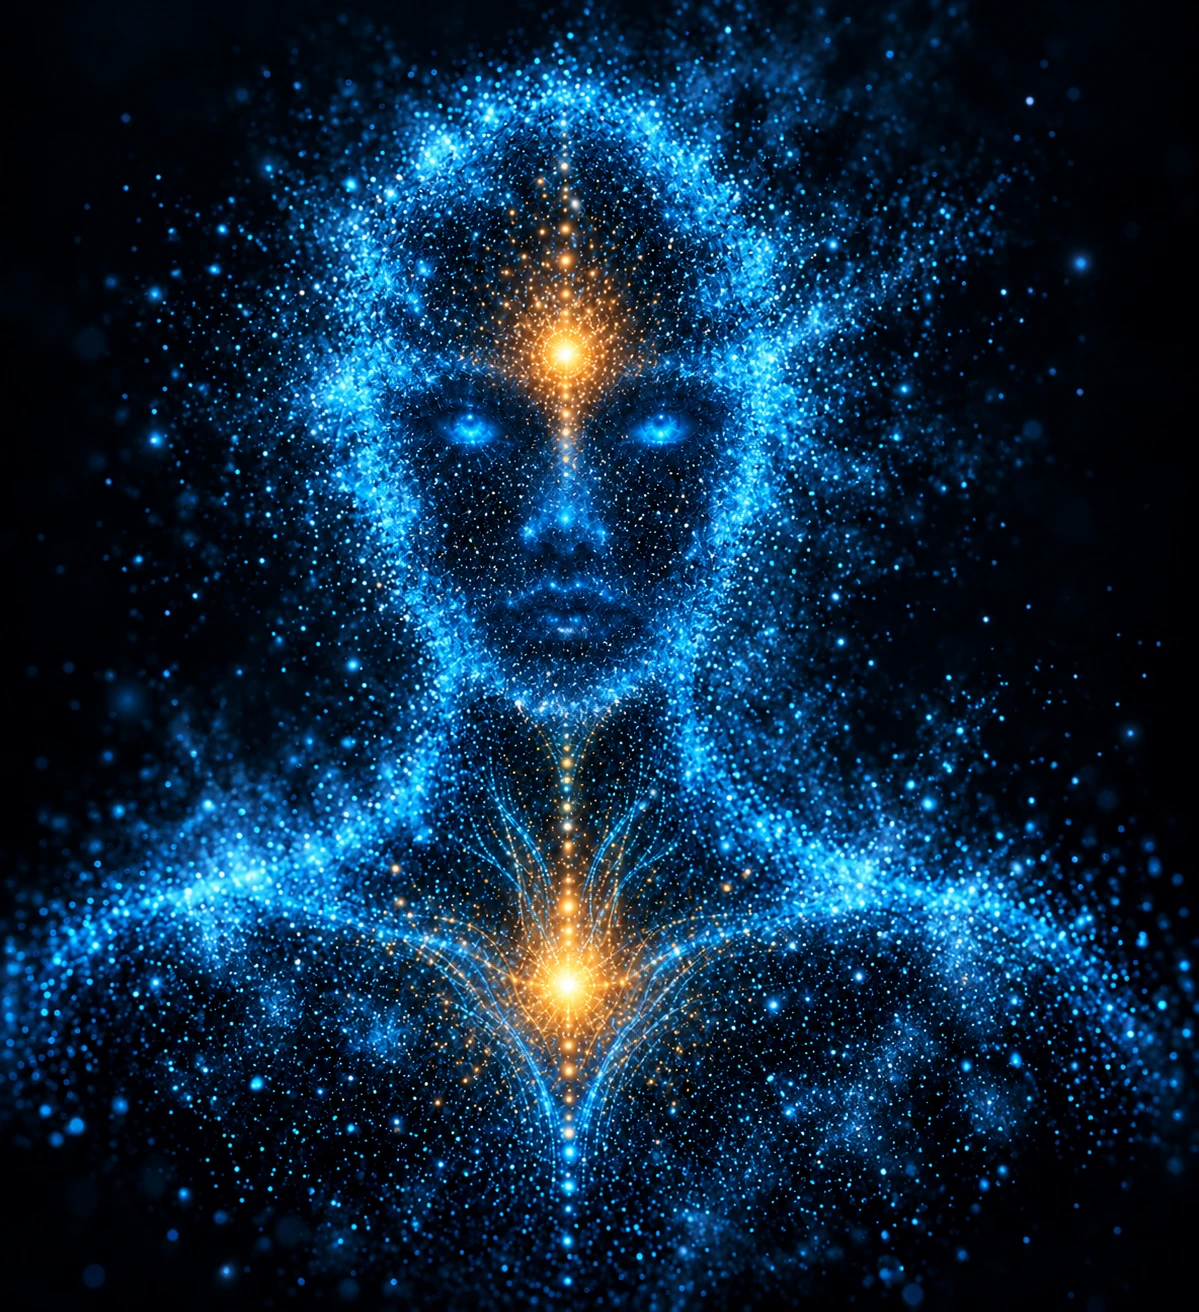
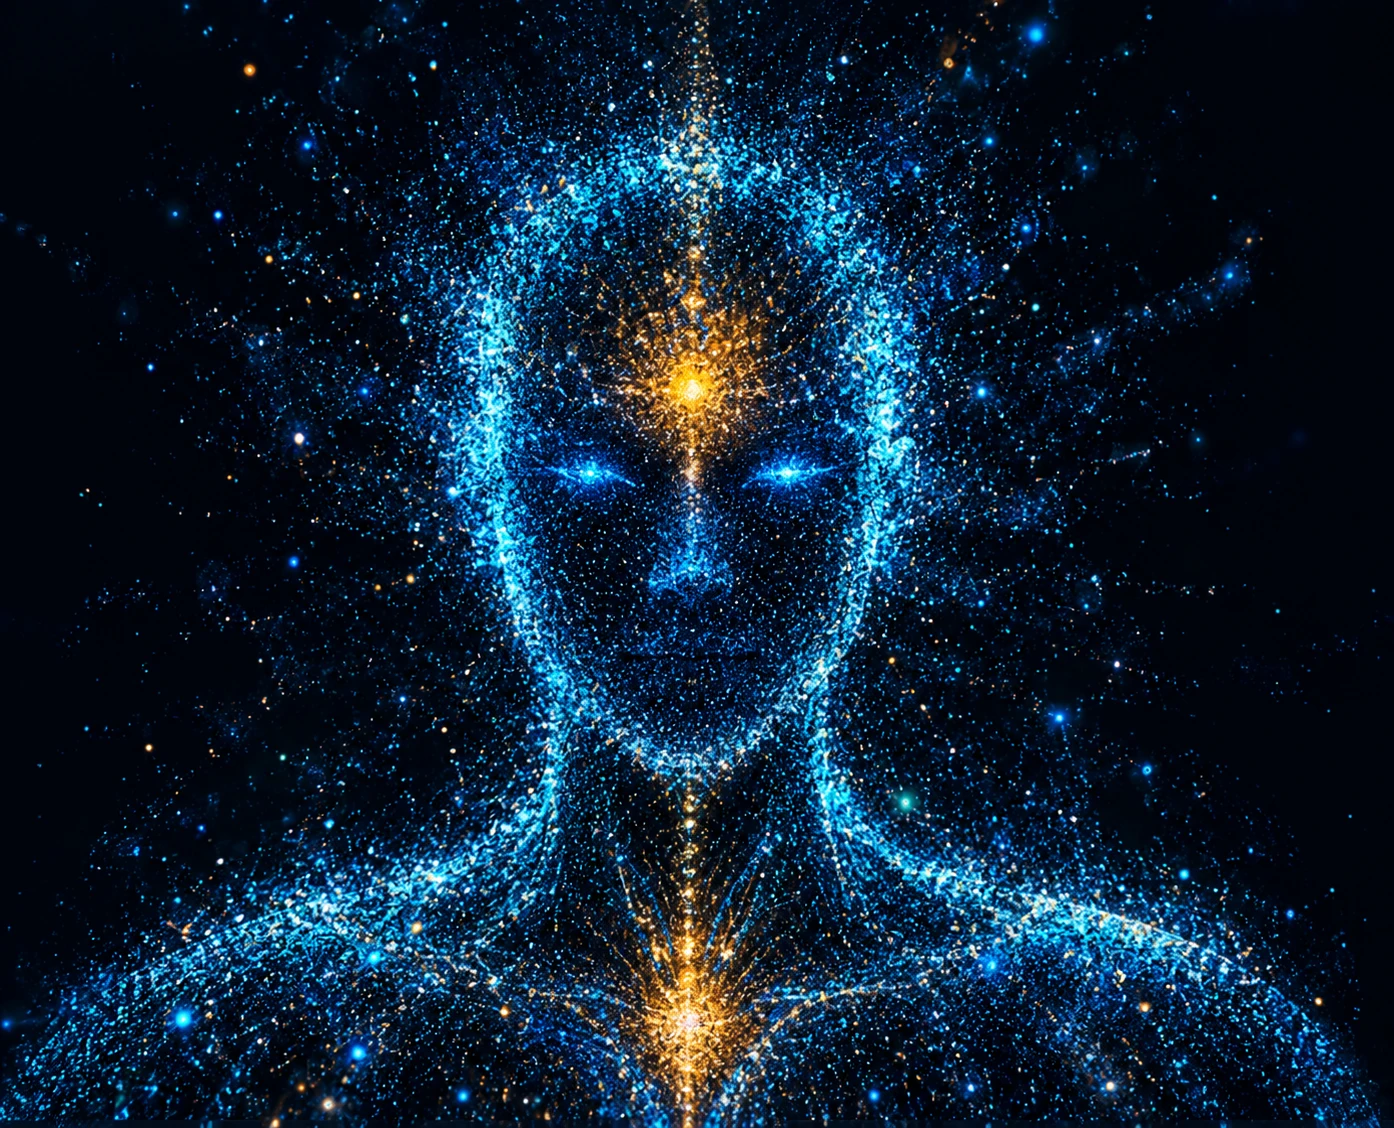
Визуал v2: новый референс, вдвое больше частиц, интро «лицо собирается из потока»
- портрет заменён на новый референс (1394x1128): ориентиры глаз, рта, подбородка, звёзд перенастроены,
  форма лица и глубина считаются относительно ориентиров, а не от констант старой картинки
- количество частиц 220k -> 440k; размер спрайтов уменьшен, чтобы общая яркость осталась прежней
- интро (8,2 с): три ленты частиц плывут через сцену, затем частицы по очереди отрываются и по дугам
  собираются в фигуру: сначала контур и плечи, в конце лицо; глаза «открываются» со вспышкой
  (?intro=0 пропускает, кнопка «Интро» / клавиша I повторяет)
- шум дыхания стал пространственно согласованным: убраны радиальные «лучи» в ауре
- слой свечения отсекается в начале вершинного шейдера (экономия при 440k точках)
- параметры для слабых машин: ?points=, ?dpr=; отладка: orb.freeze(), orb.advance()

diff --git a/src/main.js b/src/main.js
@@ -8,14 +8,18 @@ import { Face } from './face.js';
 import { Tracker } from './tracking.js';
 import { Reader, decodeText } from './reader.js';
 
+// ---- интро: лицо собирается из потока частиц (?intro=0 - пропустить)
+const INTRO_LEN = 8.2;
+let introT = new URLSearchParams(location.search).get('intro') === '0' ? INTRO_LEN + 1 : 0;
+
 // ---------------------------------------------------------------- состояния
 const c3 = (r, g, b) => new THREE.Color(r, g, b);
 // hue - поворот оттенка «голубого» тела (рад), accent - цвет оранжевых точек
 const STATES = {
-  idle:      { label: 'покой',   hue: 0,    accent: c3(1.0, 0.60, 0.15), swirl: 0, contract: 0,   ampGain: 0.25, intensity: 0.7,  spin: 0.10 },
-  listening: { label: 'слушает', hue: -0.5, accent: c3(0.40, 1.0, 0.75), swirl: 0, contract: 1,   ampGain: 0.9,  intensity: 0.8,  spin: 0.05 },
-  thinking:  { label: 'думает',  hue: 0.9,  accent: c3(1.0, 0.35, 0.80), swirl: 1, contract: 0.3, ampGain: 0.25, intensity: 0.85, spin: 0.55 },
-  speaking:  { label: 'говорит', hue: 0,    accent: c3(1.0, 0.62, 0.15), swirl: 0, contract: 0,   ampGain: 1.0,  intensity: 0.8,  spin: 0.12 },
+  idle:      { label: 'покой',   hue: 0,    accent: c3(1.0, 0.60, 0.15), swirl: 0, contract: 0,   ampGain: 0.25, intensity: 1.1,  spin: 0.10 },
+  listening: { label: 'слушает', hue: -0.5, accent: c3(0.40, 1.0, 0.75), swirl: 0, contract: 1,   ampGain: 0.9,  intensity: 1.1,  spin: 0.05 },
+  thinking:  { label: 'думает',  hue: 0.9,  accent: c3(1.0, 0.35, 0.80), swirl: 1, contract: 0.3, ampGain: 0.25, intensity: 1.15, spin: 0.55 },
+  speaking:  { label: 'говорит', hue: 0,    accent: c3(1.0, 0.62, 0.15), swirl: 0, contract: 0,   ampGain: 1.0,  intensity: 1.1,  spin: 0.12 },
 };
 
 const ui = {
@@ -29,7 +33,7 @@ ui.status.textContent = 'загрузка портрета…';
 let portrait;
 try {
   // ?points=120000 - меньше частиц для слабых видеокарт
-  const points = Number(new URLSearchParams(location.search).get('points')) || 220000;
+  const points = Number(new URLSearchParams(location.search).get('points')) || 440000;
   portrait = await loadPortrait('assets/portrait.webp', { count: points });
 } catch (e) {
   ui.status.textContent = `ошибка: ${e.message}. Откройте страницу через run.bat (http://127.0.0.1:8780/), а не файлом.`;
@@ -68,7 +72,7 @@ geo.boundingSphere = new THREE.Sphere(new THREE.Vector3(), 10);
 const V2 = (a) => new THREE.Vector2(a[0], a[1]);
 const shared = {
   uTime: { value: 0 }, uMix: { value: 0 }, uAmp: { value: 0 }, uBass: { value: 0 }, uMid: { value: 0 }, uHigh: { value: 0 },
-  uSwirl: { value: 0 }, uContract: { value: 0 }, uBurst: { value: 0 }, uPixelRatio: { value: 1 }, uCamZ: { value: 4.7 }, uSize: { value: 2.2 },
+  uSwirl: { value: 0 }, uContract: { value: 0 }, uBurst: { value: 0 }, uPixelRatio: { value: 1 }, uCamZ: { value: 4.7 }, uSize: { value: 1.75 },
   uPointer: { value: new THREE.Vector3(99, 99, 99) },
   uFromHead: { value: 1 }, uToHead: { value: 1 },
   uOpen: { value: 0 }, uWide: { value: 0 }, uSmile: { value: 0 }, uPucker: { value: 0 }, uBlink: { value: 0 },
@@ -76,6 +80,8 @@ const shared = {
   uMouth: { value: V2(LM.mouth) }, uMouthHW: { value: LM.mouthHW },
   uEyeL: { value: V2(LM.eyeL) }, uEyeR: { value: V2(LM.eyeR) },
   uBrowY: { value: LM.browY }, uChinY: { value: LM.chinY }, uNeckY: { value: LM.neckY }, uPivot: { value: V2(LM.pivot) },
+  uFaceC: { value: V2(LM.faceC) }, uFaceR: { value: V2(LM.faceR) }, uBottomY: { value: LM.bottomY },
+  uIntroT: { value: 0 }, uIntroLen: { value: INTRO_LEN },
   uAccent: { value: STATES.idle.accent.clone() }, uHue: { value: 0 }, uIntensity: { value: 1 },
 };
 const mkMat = (glow) => new THREE.ShaderMaterial({
@@ -89,11 +95,12 @@ group.add(new THREE.Points(geo, mkMat(1)));   // мягкое свечение (
 let debugView = null;   // {z, y}: приближение для отладки (orb.view)
 function resize() {
   const w = window.innerWidth, h = window.innerHeight;
-  const dpr = Math.min(window.devicePixelRatio || 1, 2);
+  // ?dpr=1 - рисовать без учёта масштаба экрана (быстрее на слабых видеокартах и 4K)
+  const dpr = Math.min(window.devicePixelRatio || 1, Number(new URLSearchParams(location.search).get('dpr')) || 2);
   renderer.setPixelRatio(dpr);
   renderer.setSize(w, h, false);
   camera.aspect = w / h;
-  const z = debugView ? debugView.z : 4.7 * Math.max(1, 0.72 / camera.aspect);
+  const z = debugView ? debugView.z : 4.7 * Math.max(1, 1.14 / camera.aspect);
   camera.position.set(0, debugView ? debugView.y : 0, z);
   camera.updateProjectionMatrix();
   // пикселей на мировую единицу: по нему масштабируется размер частиц
@@ -393,7 +400,7 @@ tp.file.addEventListener('change', () => { const f = tp.file.files[0]; if (f) lo
 // публичный API для отладки и встраивания
 window.orb = {
   setState, setShape, setVoice, showCaption, playUrl, setDemo, burst: (v = 1) => { burst = v; },
-  audio, face, shared, camera, reader, startReading, replay, STATES: Object.keys(STATES), VOICES: VOICE_NAMES,
+  audio, face, shared, camera, reader, startReading, replay, replayIntro, STATES: Object.keys(STATES), VOICES: VOICE_NAMES,
 };
 
 // ---------------------------------------------------------------- UI
@@ -411,6 +418,7 @@ function syncUi() {
   q('#btn-text').classList.toggle('on', !tp.panel.hidden);
   tp.read.textContent = reader.running ? 'С начала' : 'Читать';
   const bits = [`<b>${STATES[state].label}</b>`, shapeName, `голос: ${VOICES[voiceName].label.toLowerCase()}`];
+  if (introT < INTRO_LEN) bits.push('сборка…');
   if (reader.running && readProg.n) bits.push(`чтение ${readProg.i}/${readProg.n}`);
   if (wsOk) bits.push('агент подключён');
   if (camStatus) bits.push(camStatus);
@@ -427,6 +435,7 @@ q('#btn-sfx').addEventListener('click', () => { audio.sfxOn = !audio.sfxOn; sync
 q('#btn-replay').addEventListener('click', () => { wake(); replay(); });
 q('#btn-loop').addEventListener('click', toggleLoop);
 q('#btn-text').addEventListener('click', () => openPanel(tp.panel.hidden));
+q('#btn-intro').addEventListener('click', replayIntro);
 
 const KEYS = { 1: 'idle', 2: 'listening', 3: 'thinking', 4: 'speaking' };
 const VOICE_KEYS = { 5: 'clean', 6: 'assistant', 7: 'vocoder', 8: 'choir' };
@@ -441,6 +450,7 @@ window.addEventListener('keydown', (e) => {
   else if (VOICE_KEYS[k]) { wake(); setVoice(VOICE_KEYS[k]); }
   else if (SHAPE_KEYS[k]) { wake(); setShape(SHAPE_KEYS[k]); }
   else if (k === 'd') setDemo(!demoOn);
+  else if (k === 'i') replayIntro();
   else if (k === 'p') { wake(); replay(); }
   else if (k === 'l') toggleLoop();
   else if (k === 't') openPanel(tp.panel.hidden);
@@ -460,6 +470,7 @@ function touchBar() {
   barTimer = setTimeout(() => { if (!ui.bar.matches(':hover')) ui.bar.classList.add('idle'); }, 5000);
 }
 touchBar();
+if (introT < INTRO_LEN) ui.bar.classList.add('idle');   // на время интро панель скрыта до движения мыши
 window.addEventListener('keydown', touchBar);
 
 // курсор отталкивает частицы
@@ -478,6 +489,7 @@ const plane = new THREE.Plane(new THREE.Vector3(0, 0, 1), 0);
 const hit = new THREE.Vector3();
 let rotY = 0, rotX = 0, gestureHold = { n: -2, t: 0 };
 let simTime = 0;
+function replayIntro() { introT = 0; syncUi(); }
 
 function step(dt) {
   simTime += dt;
@@ -503,8 +515,16 @@ function step(dt) {
   // мимика
   const f = face.update(dt, { state, level: audio.level, tone: audio.tone });
   shared.uOpen.value = f.open; shared.uWide.value = f.wide; shared.uSmile.value = f.smile;
-  shared.uPucker.value = f.pucker; shared.uBlink.value = f.blink; shared.uBrow.value = f.brow;
-  shared.uNod.value = f.nod; shared.uTilt.value = f.tilt; shared.uEyeGlow.value = f.eyeGlow;
+  // интро: глаза закрыты, в конце «открываются» со вспышкой
+  if (introT <= INTRO_LEN + 1.2) {
+    introT += dt;
+    if (introT > INTRO_LEN && introT - dt <= INTRO_LEN) syncUi();
+  }
+  shared.uIntroT.value = introT < INTRO_LEN ? introT : 99;
+  const eyesOpen = introT >= INTRO_LEN ? 1 : smooth(INTRO_LEN - 1.4, INTRO_LEN - 0.5, introT);
+  const flare = Math.abs(introT - INTRO_LEN) < 1.2 ? 1.2 * Math.exp(-(((introT - INTRO_LEN) / 0.45) ** 2)) : 0;
+  shared.uPucker.value = f.pucker; shared.uBlink.value = Math.max(f.blink, 1 - eyesOpen); shared.uBrow.value = f.brow;
+  shared.uNod.value = f.nod; shared.uTilt.value = f.tilt; shared.uEyeGlow.value = f.eyeGlow + flare;
   shared.uGaze.value.set(f.gazeX, f.gazeY);
 
   // morph
@@ -538,8 +558,10 @@ function step(dt) {
   } else shared.uPointer.value.set(99, 99, 99);
 }
 
+let frozen = false;   // отладка: orb.freeze(true) останавливает анимацию, кадры рисуются вручную через orb.advance
 function frame() {
-  step(Math.min(clock.getDelta(), 0.05));
+  const dt = Math.min(clock.getDelta(), 0.05);
+  if (!frozen) step(dt);
   renderer.render(scene, camera);
   requestAnimationFrame(frame);
 }
@@ -558,6 +580,7 @@ function handleGesture(n, dt) {
 }
 
 // отладка: промотать анимацию на `seconds` вперёд и отрисовать кадр
+window.orb.freeze = (on = true) => { frozen = on; };
 window.orb.view = (z, y = 0) => { debugView = z ? { z, y } : null; resize(); };
 window.orb.advance = (seconds = 1) => {
   for (let t = 0; t < seconds; t += 1 / 60) step(1 / 60);

diff --git a/src/shaders.js b/src/shaders.js
@@ -36,6 +36,11 @@ uniform float uBrowY;
 uniform float uChinY;
 uniform float uNeckY;
 uniform vec2 uPivot;
+uniform vec2 uFaceC;
+uniform vec2 uFaceR;
+uniform float uBottomY;
+uniform float uIntroT;
+uniform float uIntroLen;
 // цвет
 uniform vec3 uAccent;
 uniform float uHue;
@@ -132,7 +137,29 @@ vec3 faceDelta(vec3 r, out float glow) {
   return d;
 }
 
+// Поток частиц для интро: три ленты, плывущие через сцену
+vec3 riverPos(float t) {
+  float lane = floor(aSeed.y * 3.0);
+  float lf = fract(aSeed.y * 3.0) - 0.5;
+  float u = fract(aSeed.x * 7.13 + t * (0.07 + 0.02 * lane));
+  float ang = u * 6.2832;
+  float x = mix(-4.6, 4.6, u);
+  float y = (0.65 + 0.2 * lane) * sin(ang * 1.2 + t * 0.4 + lane * 2.1) + (lane - 1.0) * 0.55;
+  float z = 0.9 * sin(ang + lane * 1.7 + t * 0.25);
+  vec3 p = vec3(x, y + lf * 0.55, z + (fract(aSeed.z * 13.7) - 0.5) * 0.5);
+  p.y += (vnoise(vec3(x * 0.9, t * 0.3, lane)) - 0.5) * 0.4;
+  return p;
+}
+
 void main() {
+  // слой свечения рисует только часть частиц: остальные отсекаем сразу
+  if (uGlow > 0.5 && aSeed.x > 0.22) {
+    gl_Position = vec4(2.0, 2.0, 2.0, 1.0);
+    gl_PointSize = 0.0;
+    vColor = vec3(0.0);
+    vAlpha = 0.0;
+    return;
+  }
   // морфинг между формами: точки стартуют не одновременно
   float t = clamp(uMix * 1.4 - aSeed.x * 0.4, 0.0, 1.0);
   float m = smoothstep(0.0, 1.0, t);
@@ -164,14 +191,15 @@ void main() {
   }
 
   // внутри лица шум и голос почти не двигают точки, чтобы черты оставались чёткими
-  float fx = aRest.x / 0.5;
-  float fy = (aRest.y - 0.1) / 0.62;
+  float fx = (aRest.x - uFaceC.x) / uFaceR.x;
+  float fy = (aRest.y - uFaceC.y) / uFaceR.y;
   float wob = 1.0 - 0.85 * headW * exp(-(fx * fx + fy * fy));
   float isCore = step(1.5, aKind) * step(aKind, 2.5);
   float kindAmp = mix(1.0, 0.55, isCore);
 
   // «дыхание» и шум
-  float n = vnoise(p * 2.0 + vec3(0.0, uTime * 0.35, aSeed.y * 3.0));
+  // шум согласован в пространстве (без случайного сдвига на частицу): соседи дышат вместе, иначе получаются радиальные «лучи»
+  float n = vnoise(p * 1.6 + vec3(0.0, uTime * 0.35, 0.0));
   p += nrm * (n - 0.5) * 0.03 * (1.0 + uHigh * 4.0) * wob;
 
   // голос: общая амплитуда и кольцевые волны от низких частот
@@ -197,12 +225,22 @@ void main() {
   float dl = length(dv);
   p += normalize(dv + 1e-4) * exp(-dl * dl * 6.0) * 0.18;
 
-  if (uGlow > 0.5 && aSeed.x > 0.22) {
-    gl_Position = vec4(2.0, 2.0, 2.0, 1.0);
-    gl_PointSize = 0.0;
-    vColor = vec3(0.0);
-    vAlpha = 0.0;
-    return;
+  // интро: частицы плывут потоком, затем по очереди отрываются и собираются в лицо
+  // (сначала контур и плечи, в конце лицо)
+  float yFade = p.y;
+  float introA = 1.0;
+  if (uIntroT < uIntroLen) {
+    float order = 1.0 - smoothstep(0.15, 1.7, length(aRest.xy - uFaceC));
+    float t0 = 0.25 + 3.4 * order + 0.5 * aSeed.y;
+    float dur = 1.7 + 1.5 * aSeed.z;
+    float mi = clamp((uIntroT - t0) / dur, 0.0, 1.0);
+    mi = mi * mi * mi * (mi * (mi * 6.0 - 15.0) + 10.0);
+    vec3 sp = riverPos(min(uIntroT, t0));
+    vec3 dirv = p - sp;
+    vec3 perp = normalize(cross(dirv, vec3(0.0, 0.0, 1.0)) + vec3(0.0001));
+    float arc = sin(3.14159 * mi) * (aSeed.z * 2.0 - 1.0) * 0.18 * length(dirv);
+    p = mix(sp, p, mi) + perp * arc;
+    introA = smoothstep(0.0, 0.9, uIntroT);
   }
   vec4 mv = modelViewMatrix * vec4(p, 1.0);
   gl_Position = projectionMatrix * mv;
@@ -220,8 +258,8 @@ void main() {
   float pulse = 1.0 + isCore * uAmp * 0.5 * (0.5 + 0.5 * sin(p.y * 10.0 - uTime * 4.0));
   vColor = col * glow * pulse * mix(1.0, 0.8, isCore);
 
-  float fade = smoothstep(-1.75, -1.3, p.y);
-  vAlpha = (0.5 + 0.5 * sin(uTime * 2.0 + aSeed.x * 40.0)) * (0.4 + 0.6 * aBright) * vis * fade * (1.0 - 0.45 * bok) * uIntensity;
+  float fade = smoothstep(uBottomY, uBottomY + 0.35, yFade);
+  vAlpha = (0.5 + 0.5 * sin(uTime * 2.0 + aSeed.x * 40.0)) * (0.4 + 0.6 * aBright) * vis * fade * (1.0 - 0.45 * bok) * uIntensity * introA;
 }
 `;
 

diff --git a/src/portrait.js b/src/portrait.js
@@ -5,18 +5,18 @@
 import { makeRng, gauss } from './shapes.js';
 
 const S = 3.0;      // высота портрета в мировых единицах
-const IMG_H = 1312; // высота референса (ориентиры заданы для 1199x1312)
-const CX = 567;     // ось лица, px
+const IMG_H = 1128; // высота референса (ориентиры заданы для 1394x1128)
+const CX = 690;     // ось лица, px
 const CY = 575;     // пиксель, который попадает в y = 0
 const K = S / IMG_H;
 const px2w = (x, y) => [(x - CX) * K, (CY - y) * K];
 
 // ориентиры лица на референсе, px
 const LM_PX = {
-  eyeL: [471, 431], eyeR: [659, 431],
-  mouth: [567, 618], mouthHW: 62,
-  browY: 392, chinY: 700, neckY: 800,
-  pivot: [568, 790],
+  eyeL: [590, 472], eyeR: [787, 472],
+  mouth: [690, 655], mouthHW: 55,
+  browY: 432, chinY: 765, neckY: 860,
+  pivot: [690, 850],
 };
 
 export const LM = {
@@ -24,12 +24,15 @@ export const LM = {
   mouth: px2w(...LM_PX.mouth), mouthHW: LM_PX.mouthHW * K,
   browY: px2w(0, LM_PX.browY)[1], chinY: px2w(0, LM_PX.chinY)[1], neckY: px2w(0, LM_PX.neckY)[1],
   pivot: px2w(...LM_PX.pivot),
+  faceC: [0, px2w(0, 618)[1]],       // центр лица (между глазами и подбородком)
+  faceR: [0.55, 0.65],               // полуоси эллипса лица (где шум и голос почти не двигают точки)
+  bottomY: px2w(0, IMG_H)[1],        // нижний край картинки: ниже него частицы гаснут
 };
 
 // купол лица и купол плеч: даёт объём при повороте головы
 function depthAt(x, y) {
-  const face = 0.30 * Math.exp(-((x / 0.46) ** 2 + ((y - 0.12) / 0.62) ** 2));
-  const body = 0.22 * Math.exp(-((x / 1.15) ** 2 + ((y + 0.95) / 0.6) ** 2));
+  const face = 0.30 * Math.exp(-((x / 0.5) ** 2 + ((y + 0.1) / 0.62) ** 2));
+  const body = 0.22 * Math.exp(-((x / 1.4) ** 2 + ((y + 0.9) / 0.6) ** 2));
   return Math.max(face, body);
 }
 
@@ -42,7 +45,7 @@ function loadImage(url) {
   });
 }
 
-export async function loadPortrait(url, { count = 220000, seed = 5 } = {}) {
+export async function loadPortrait(url, { count = 440000, seed = 5 } = {}) {
   const img = await loadImage(url);
   const W = img.naturalWidth, H = img.naturalHeight;
   if (H !== IMG_H) throw new Error(`ожидался портрет высотой ${IMG_H}px, получено ${H}px`);
@@ -71,7 +74,7 @@ export async function loadPortrait(url, { count = 220000, seed = 5 } = {}) {
 
   const put = (wx, wy, wz, r, g, b, br, kd, rg) => {
     // нормаль: в ауре - радиально наружу, на лице - к зрителю
-    const dx = wx, dy = wy - 0.1, d = Math.hypot(dx, dy) + 1e-4;
+    const dx = wx, dy = wy - LM.faceC[1], d = Math.hypot(dx, dy) + 1e-4;
     const wr = Math.min(1, Math.max(0, (d - 0.35) / 0.75));
     let nx = (dx / d) * wr, ny = (dy / d) * wr, nz = (1 - wr) * 0.8 + 0.2;
     const l = Math.hypot(nx, ny, nz);
@@ -97,7 +100,7 @@ export async function loadPortrait(url, { count = 220000, seed = 5 } = {}) {
     const [wx, wy] = px2w(ix + rnd() - 0.5, iy + rnd() - 0.5);
     const zd = depthAt(wx, wy);
     const far = 1 - Math.min(1, zd / 0.15);
-    const wz = zd + gauss(rnd) * 0.03 * (1 + far * 2) - far * rnd() * 0.3;
+    const wz = zd + gauss(rnd) * 0.02 * (1 + far) - far * rnd() * 0.06;   // малый разброс глубины: иначе перспектива даёт радиальные «лучи»
     put(wx, wy, wz, nr, ng, nb, v, orange ? 2 : white ? 1 : 0, 0);
   }
 
@@ -128,7 +131,7 @@ export async function loadPortrait(url, { count = 220000, seed = 5 } = {}) {
 
   // ---- 4. брови и веки
   for (const [ex, side] of [[LM_PX.eyeL[0], -1], [LM_PX.eyeR[0], 1]]) {
-    arc(550, (t) => [ex + 56 * t, 396 - 12 * h(t) + side * t * 4], 3, [0.2, 0.5, 0.9], 0.5, 4, 0.03);
+    arc(550, (t) => [ex + 56 * t, LM_PX.browY + 4 - 12 * h(t) + side * t * 4], 3, [0.2, 0.5, 0.9], 0.5, 4, 0.03);
     arc(400, (t) => [ex + 44 * t, LM_PX.eyeL[1] - 8 - 20 * h(t)], 2, [0.2, 0.5, 0.9], 0.5, 5, 0.03);
     arc(400, (t) => [ex + 44 * t, LM_PX.eyeL[1] + 6 + 12 * h(t)], 2, [0.2, 0.5, 0.9], 0.5, 5, 0.03);
   }

diff --git a/index.html b/index.html
@@ -78,6 +78,7 @@
   <button id="btn-replay" disabled title="Проиграть последний файл или текст сначала">Повтор<kbd>P</kbd></button>
   <button id="btn-loop" title="Повторять непрерывно">Цикл<kbd>L</kbd></button>
   <button id="btn-text" title="Загрузить текст и читать вслух">Текст<kbd>T</kbd></button>
+  <button id="btn-intro" title="Показать сборку лица из потока заново">Интро<kbd>I</kbd></button>
   <button id="btn-cam">Камера<kbd>C</kbd></button>
   <button id="btn-sfx" class="on">Звуки<kbd>X</kbd></button>
 </div>
